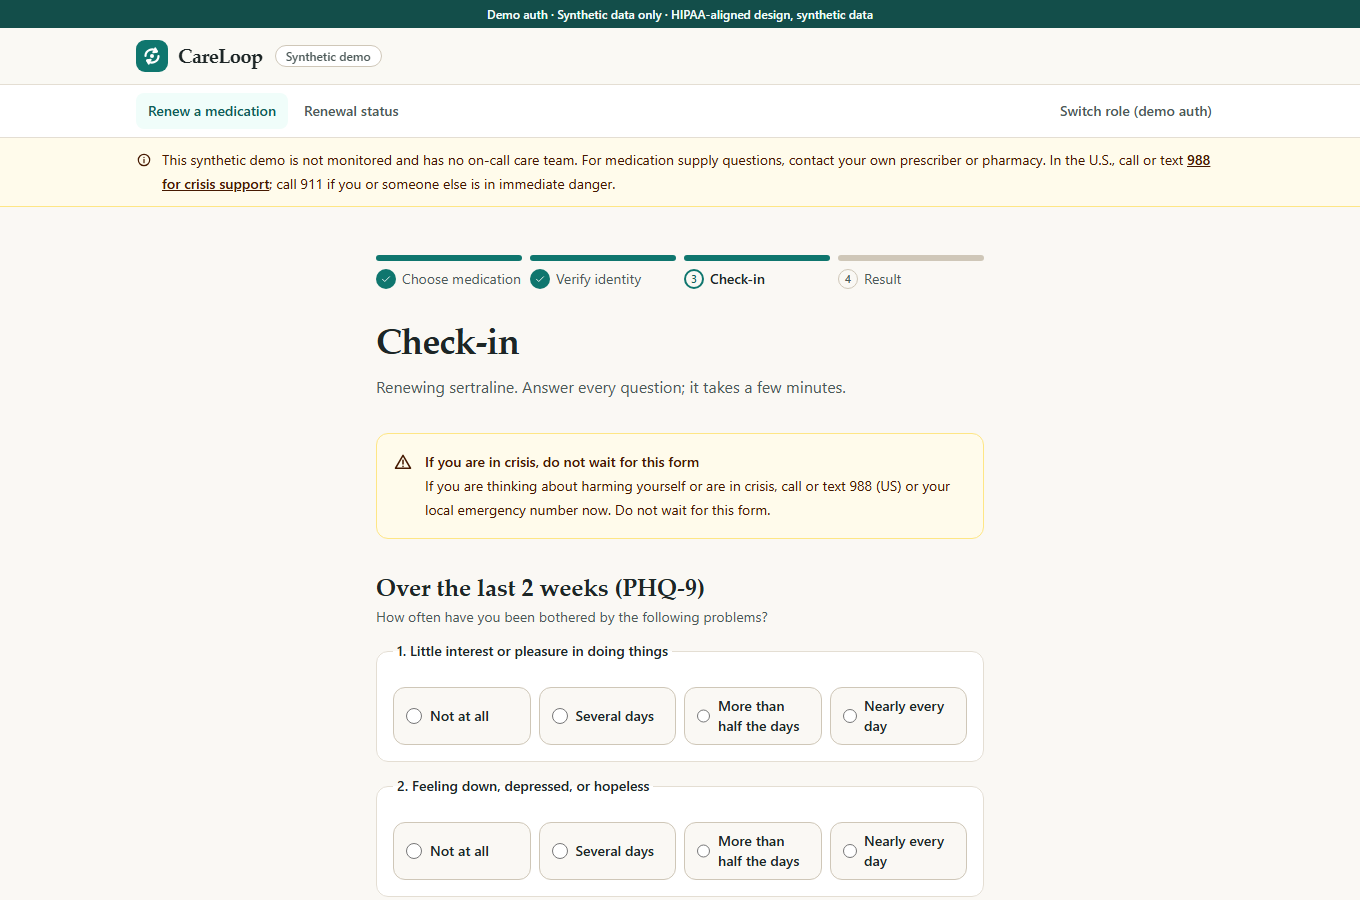
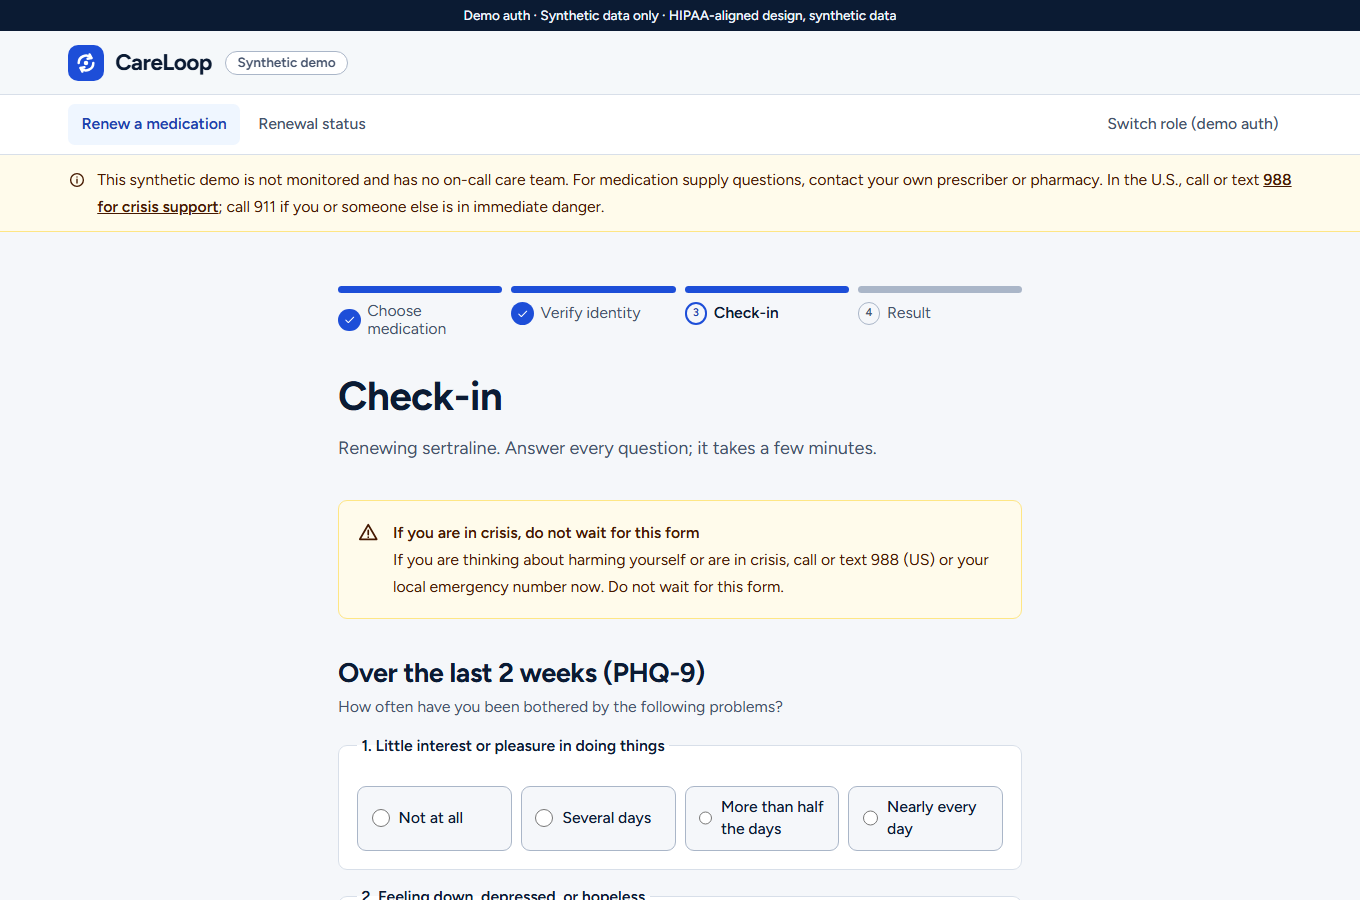
Fix dev login without .env; new type and flatter look
pnpm dev with no .env left DATABASE_URL unset, so Continue as patient landed on a 500. In
development only, getSql now defaults to the local docker database from .env.example. Production
still refuses to start without DATABASE_URL.

Switch to self-hosted Figtree at an 18px base, navy ink, one blue accent and small radii.

diff --git a/src/app/globals.css b/src/app/globals.css
@@ -1,32 +1,33 @@
 @import "tailwindcss";
+@import "@fontsource-variable/figtree";
 
 /*
- * CareLoop design tokens. Calm, warm-neutral surfaces with ONE accent (deep teal) and clear status tones.
- * System fonts only: the CSP allows no external font hosts, and system type is fast and accessible.
- * Dark mode follows the OS preference through the CSS variables below.
+ * CareLoop design tokens. Clean clinical look: white surfaces, navy ink, ONE blue accent, flat 1px
+ * borders and small radii. Figtree is self-hosted through the @fontsource package (the CSP allows
+ * no external font hosts). Dark mode follows the OS preference through the CSS variables below.
  */
 :root {
   color-scheme: light dark;
-  --canvas: #faf8f4;
+  --canvas: #f5f7fa;
   --surface: #ffffff;
-  --surface-sunken: #f3efe8;
-  --ink: #1d2626;
-  --muted: #4d5a59;
-  --line: #e4ded3;
-  --line-strong: #cfc7b8;
-  --focus: #0f766e;
+  --surface-sunken: #eaeef4;
+  --ink: #0b1b33;
+  --muted: #44526b;
+  --line: #d8dfe9;
+  --line-strong: #aab6c8;
+  --focus: #1d4ed8;
 }
 
 @media (prefers-color-scheme: dark) {
   :root {
-    --canvas: #0f1514;
-    --surface: #172120;
-    --surface-sunken: #1c2827;
-    --ink: #eef3f1;
-    --muted: #aebdba;
-    --line: #28363a;
-    --line-strong: #3a4b4f;
-    --focus: #5eead4;
+    --canvas: #0a1220;
+    --surface: #111b2e;
+    --surface-sunken: #16223a;
+    --ink: #eef2f9;
+    --muted: #b0bdd3;
+    --line: #26344f;
+    --line-strong: #3b4d70;
+    --focus: #93c5fd;
   }
 }
 
@@ -39,34 +40,44 @@
   --color-line: var(--line);
   --color-line-strong: var(--line-strong);
 
-  --color-brand-50: #f0fdfa;
-  --color-brand-100: #ccfbf1;
-  --color-brand-200: #99f6e4;
-  --color-brand-300: #5eead4;
-  --color-brand-500: #14b8a6;
-  --color-brand-600: #0d9488;
-  --color-brand-700: #0f766e;
-  --color-brand-800: #115e59;
-  --color-brand-900: #134e4a;
+  --color-brand-50: #eff6ff;
+  --color-brand-100: #dbeafe;
+  --color-brand-200: #bfdbfe;
+  --color-brand-300: #93c5fd;
+  --color-brand-500: #3b82f6;
+  --color-brand-600: #2563eb;
+  --color-brand-700: #1d4ed8;
+  --color-brand-800: #1e40af;
+  --color-brand-900: #0b1b33;
 
-  --font-display: ui-serif, "Iowan Old Style", "Palatino Linotype", Palatino, Georgia, serif;
-  --font-sans:
-    ui-sans-serif, system-ui, -apple-system, "Segoe UI", Roboto, "Helvetica Neue", Arial, sans-serif;
+  --font-display: "Figtree Variable", ui-sans-serif, system-ui, "Segoe UI", Roboto, sans-serif;
+  --font-sans: "Figtree Variable", ui-sans-serif, system-ui, "Segoe UI", Roboto, sans-serif;
 
-  --radius-card: 1rem;
-  --shadow-card: 0 1px 2px rgb(29 38 38 / 0.05), 0 4px 16px rgb(29 38 38 / 0.04);
+  --radius-lg: 0.375rem;
+  --radius-xl: 0.5rem;
+  --radius-2xl: 0.625rem;
+  --radius-card: 0.5rem;
+  --shadow-card: 0 1px 2px rgb(11 27 51 / 0.06);
+  --shadow-sm: 0 1px 1px rgb(11 27 51 / 0.05);
 }
 
 html {
   -webkit-text-size-adjust: 100%;
+  font-size: 112.5%; /* 18px base: larger, easier-to-read type everywhere (rem scales) */
 }
 
 body {
   background: var(--canvas);
   color: var(--ink);
   font-family: var(--font-sans);
-  line-height: 1.55;
+  line-height: 1.6;
   text-rendering: optimizeLegibility;
+}
+
+h1,
+h2,
+h3 {
+  letter-spacing: -0.015em;
 }
 
 /* One consistent, high-contrast focus ring for every interactive element. */
@@ -113,4 +124,9 @@ body {
     opacity: 1;
     transform: none;
   }
+}
+
+/* Display headings use the bold weight of the single type family. */
+.font-display {
+  font-weight: 700;
 }

diff --git a/src/infra/db/client.ts b/src/infra/db/client.ts
@@ -2,11 +2,17 @@
 // with Supabase's transaction-mode pooler. Cached on globalThis so dev HMR reuses one pool.
 import postgres, { type Sql } from "postgres";
 
+// Local docker default (matches .env.example) so `pnpm dev` works without a .env file. Development
+// only: any other environment must set DATABASE_URL or the app refuses to start.
+const DEV_DATABASE_URL = "postgres://careloop:careloop@127.0.0.1:54329/careloop";
+
 const g = globalThis as unknown as { __careloopSql?: Sql };
 
 export function getSql(): Sql {
   if (!g.__careloopSql) {
-    const url = process.env.DATABASE_URL;
+    const url =
+      process.env.DATABASE_URL ||
+      (process.env.NODE_ENV === "development" ? DEV_DATABASE_URL : undefined);
     if (!url) throw new Error("DATABASE_URL is required");
     g.__careloopSql = postgres(url, { max: 5, prepare: false, onnotice: () => {} });
   }
